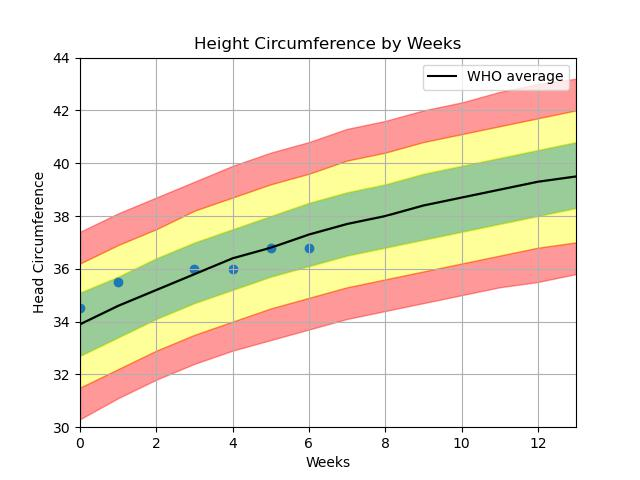
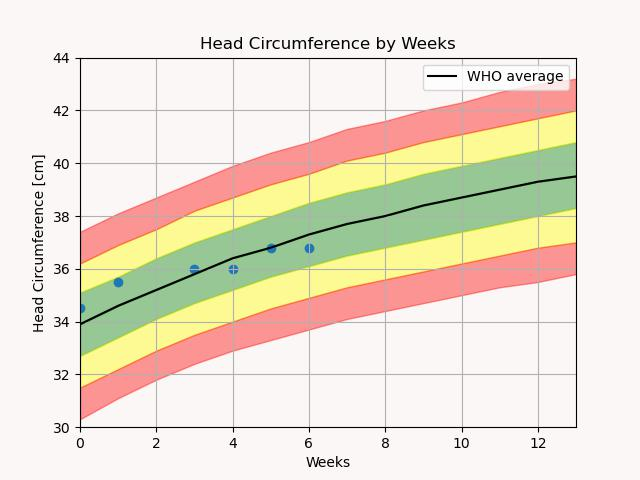
html background color

Changed region(s): [[0.3125, 0.0625, 0.7188, 0.125], [0.0312, 0.3125, 0.0938, 0.6875]]

diff --git a/templates/dashboard.html b/templates/dashboard.html
@@ -1,6 +1,16 @@
 <!DOCTYPE html>
 <html language="en">
-
+    <style> 
+        body {
+          background-color:rgba(253, 247, 247, 0.99);
+          font-family: arial, sans-serif; 
+        }
+        
+        #content {
+            max-width: 1000px;
+            margin: auto;
+        }
+    </style>
 <head>
     <meta charset="UTF-8">
     <title>Baby Dashboard</title>

diff --git a/app/plot_util.py b/app/plot_util.py
@@ -22,7 +22,9 @@ def plot_fcn(
     xmin=0,
     xmax=13,
 ):
-    plt.figure()
+    plt.figure(facecolor=(0.99, 0.97, 0.97))
+    ax = plt.axes()
+    ax.set_facecolor((0.99, 0.97, 0.97))
     plt.fill_between(xx, df.SD0.values, df.SD1.values, color="green", alpha=0.4)
     plt.fill_between(xx, df.SD1.values, df.SD2.values, color="yellow", alpha=0.4)
     plt.fill_between(xx, df.SD2.values, df.SD3.values, color="red", alpha=0.4)
@@ -69,7 +71,7 @@ def plot_weight(data):
         ARTIFACT_PATH,
         "weight.jpg",
         "Weeks",
-        "Weight",
+        "Weight [kg]",
         "Weight by Weeks",
     )
     return
@@ -100,7 +102,7 @@ def plot_height(data):
         ARTIFACT_PATH,
         "height.jpg",
         "Weeks",
-        "Height",
+        "Height [cm]",
         "Height by Weeks",
     )
     return
@@ -131,8 +133,8 @@ def plot_head(data):
         ARTIFACT_PATH,
         "head.jpg",
         "Weeks",
-        "Head Circumference",
-        "Height Circumference by Weeks",
+        "Head Circumference [cm]",
+        "Head Circumference by Weeks",
     )
     return
 
@@ -166,8 +168,8 @@ def plot_wh(weight_data, height_data):
         12,
         ARTIFACT_PATH,
         "wh.jpg",
-        "Height",
-        "Weight",
+        "Height [cm]",
+        "Weight [kg]",
         "Weight/Height",
         xmin=45,
         xmax=70,
@@ -178,7 +180,6 @@ def plot_wh(weight_data, height_data):
 def plot_feeding(feeding_data, weight_data):
     PROJECT_PATH = pathlib.Path(__file__).resolve().parent.parent
     ARTIFACT_PATH = PROJECT_PATH / "static"
-    print(ARTIFACT_PATH)
     
     df = pd.DataFrame(feeding_data)
     df2 = df[["date", "total_vol"]].copy()
@@ -193,7 +194,9 @@ def plot_feeding(feeding_data, weight_data):
     df_weight["total_feed_high"] = 170 * df_weight.weight
 
     # Plot eating
-    plt.figure()
+    plt.figure(facecolor=(0.99, 0.97, 0.97))
+    ax = plt.axes()
+    ax.set_facecolor((0.99, 0.97, 0.97))
     plt.bar(df2.date, df2.total_vol.values, label='Volume Eaten')
     plt.plot(df_weight.date, df_weight.total_feed, color="orange", label="Calc Requirement")
     plt.fill_between(
